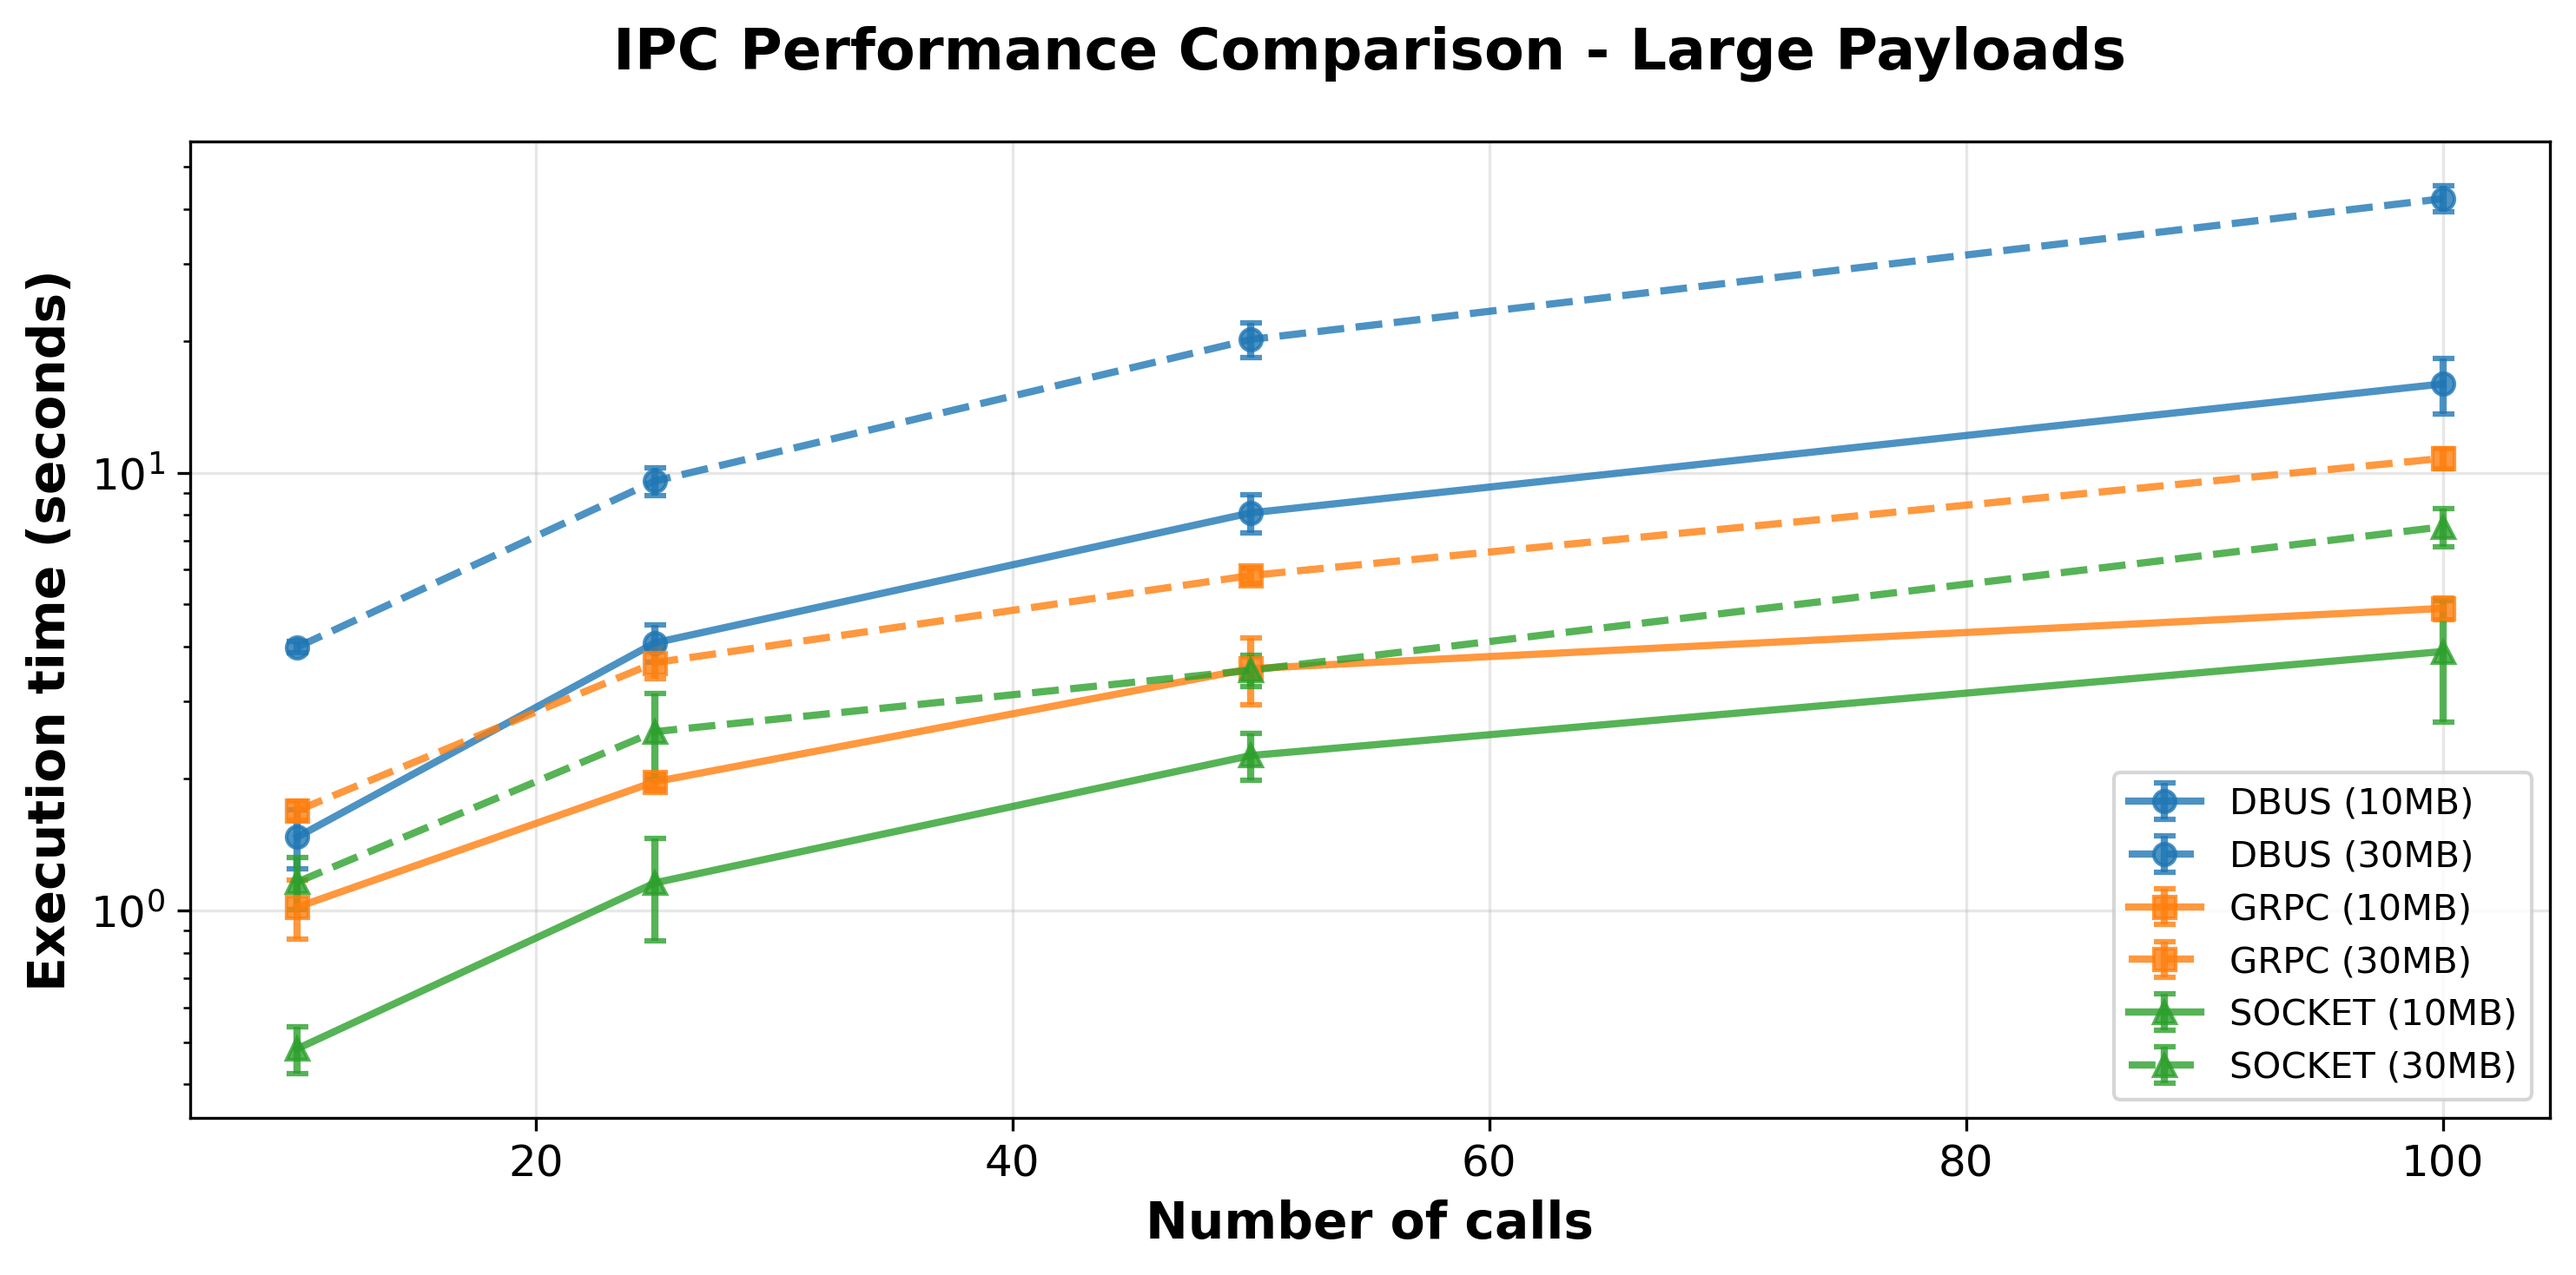
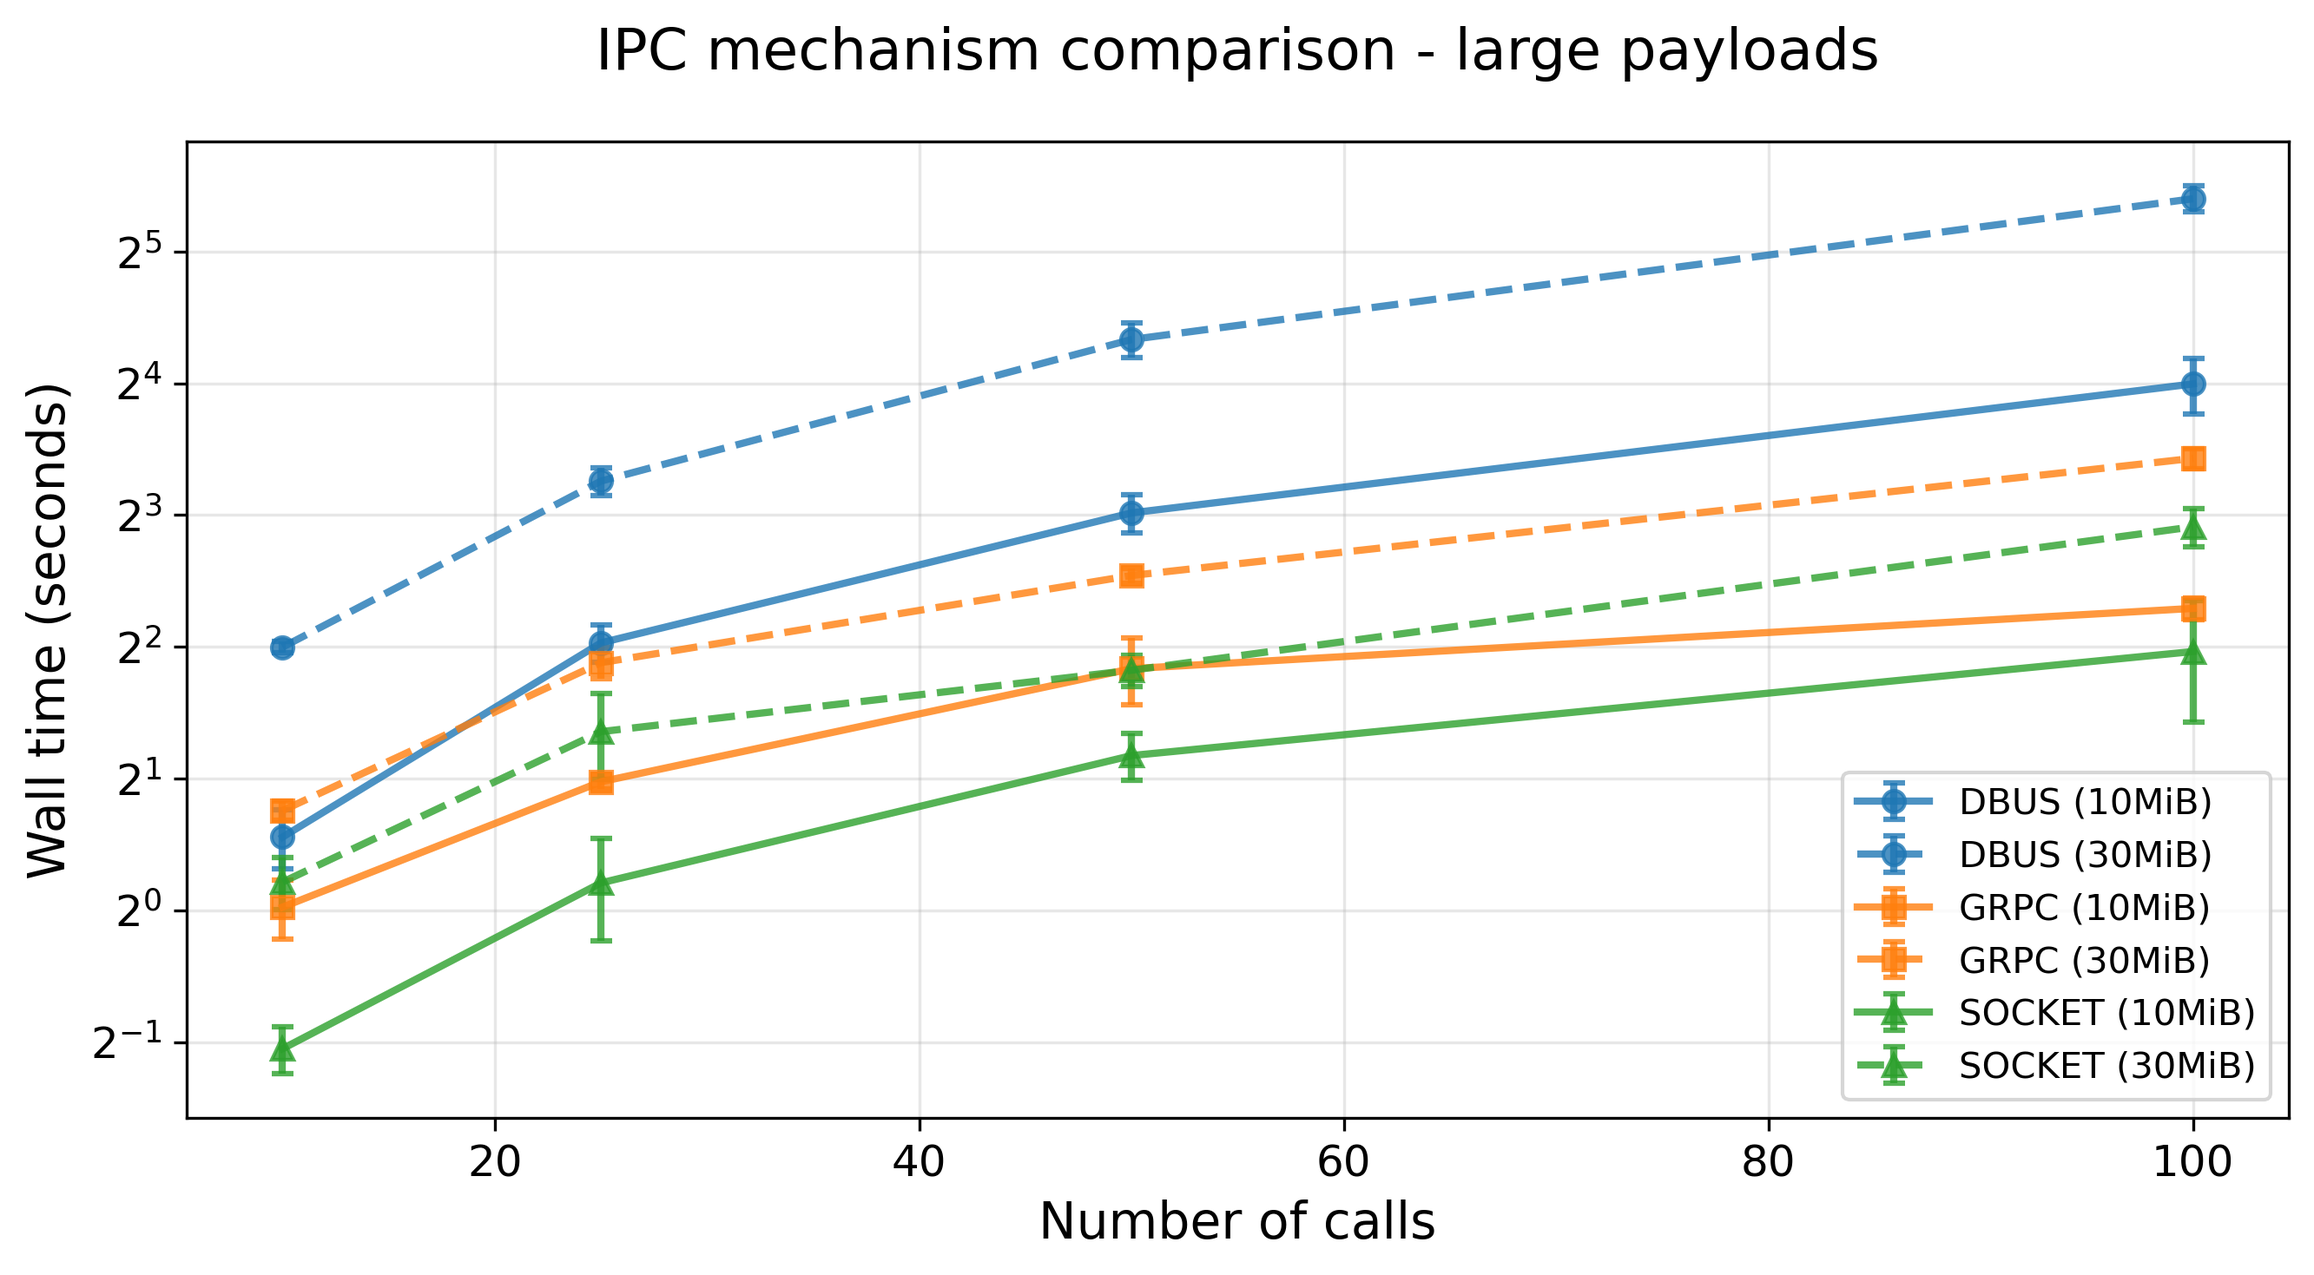
slight adjustments

diff --git a/benchmark-results/visualize.py b/benchmark-results/visualize.py
@@ -33,6 +33,9 @@ def parse_file(filepath):
             bytes_per_call = int(parts[1])
             num_calls = int(parts[2])
             time_seconds = parse_time(parts[3])
+
+            if (time_seconds < 2**-6):
+                continue
             
             raw_data[bytes_per_call][num_calls].append(time_seconds)
     
@@ -61,7 +64,7 @@ def parse_file(filepath):
 
 def create_comparison_plot(data_dict, title, filename, payload_sizes=[1, 32, 1024], is_large=False):
     """Create a comparison plot for different IPC methods with multiple payload sizes"""
-    fig, ax = plt.subplots(1, 1, figsize=(10, 5))
+    fig, ax = plt.subplots(1, 1, figsize=(9, 5))
     
     colors = {'dbus': '#1f77b4', 'grpc': '#ff7f0e', 'socket': '#2ca02c'}
     markers = {'dbus': 'o', 'grpc': 's', 'socket': '^'}
@@ -78,7 +81,7 @@ def create_comparison_plot(data_dict, title, filename, payload_sizes=[1, 32, 102
                 # Format payload size for legend
                 if is_large:
                     size_mb = payload_size // (1024 * 1024)
-                    size_label = f"{size_mb}MB"
+                    size_label = f"{size_mb}MiB"
                 else:
                     size_label = f"{payload_size}B"
                 
@@ -96,9 +99,9 @@ def create_comparison_plot(data_dict, title, filename, payload_sizes=[1, 32, 102
                            alpha=0.8)
     
     # Formatting
-    ax.set_xlabel("Number of calls", fontsize=14, fontweight='bold')
-    ax.set_ylabel("Execution time (seconds)", fontsize=14, fontweight='bold')
-    ax.set_title(title, fontsize=16, fontweight='bold', pad=20)
+    ax.set_xlabel("Number of calls", fontsize=14, fontweight='medium')
+    ax.set_ylabel("Wall time (seconds)", fontsize=14, fontweight='medium')
+    ax.set_title(title, fontsize=16, fontweight='medium', pad=20)
     ax.grid(True, alpha=0.3)
     ax.legend(fontsize=10, loc='lower right', ncol=1)
     
@@ -114,7 +117,7 @@ def create_comparison_plot(data_dict, title, filename, payload_sizes=[1, 32, 102
                     max_time = max(max_time, max(data[ps]['mean_times']))
     
     if max_time > 10:
-        ax.set_yscale('log')
+        ax.set_yscale('log', base=2)
     
     plt.tight_layout()
     plt.savefig(filename, dpi=300, bbox_inches='tight')
@@ -178,7 +181,7 @@ def main():
     payload_sizes = [1, 1024]  # Small and large regular payloads
     create_comparison_plot(
         regular_data,
-        "IPC Performance Comparison - Regular Payloads",
+        "IPC mechanism comparison - small payloads",
         "ipc_comparison_regular.png",
         payload_sizes,
         is_large=False
@@ -188,7 +191,7 @@ def main():
     large_payload_sizes = [10485760, 31457280]  # 10MB, 30MB
     create_comparison_plot(
         large_data,
-        "IPC Performance Comparison - Large Payloads",
+        "IPC mechanism comparison - large payloads",
         "ipc_comparison_large.png",
         large_payload_sizes,
         is_large=True
